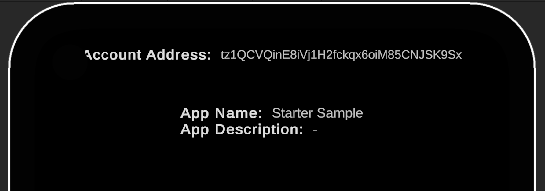
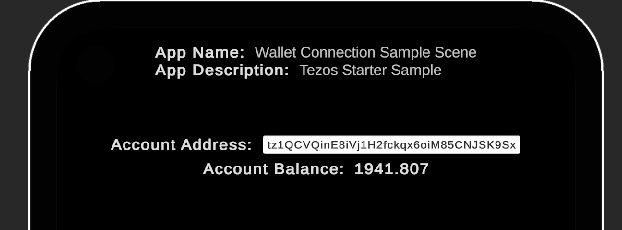
Update walletconnection scene

diff --git a/docs/dApps/unity.md b/docs/dApps/unity.md
@@ -87,15 +87,14 @@ To connect, scan the QR code in any Tezos-compatible wallet app.
 Mobile wallet apps for Tezos include [Temple](https://templewallet.com/), [Kukai](https://wallet.kukai.app/), and [Umami](https://umamiwallet.com/).
 Then, approve  the connection in the wallet app.
 
-Then, the scene shows the address of the connected account and a logout button that closes the connection:
+Then, the scene shows the address of the connected account and its balance, as in the following picture.
+At the bottom of the scene there is a logout button that closes the connection.
 
 <img src="/img/dApps/unity-walletconnection-scene-connected.png" alt="The WalletConnection scene with a connected account" style={{width: 300}} />
 
 To see the code that runs the objects in the scene, stop the scene and expand the Canvas object in the Hierarchy panel.
 Then, select an object, go to the Inspector panel, and double-click the script component.
-For example, to open the code for the object that shows the address of the account, select the AccountAddress object in the Hierarchy panel and double-click `AccountInfoUI` in the Inspector panel, as shown in this image:
-
-<img src="/img/dApps/unity-walletconnection-scene-accountinfoui.png" alt="Opening the AccountInfoUI script" style={{width: 600}} />
+For example, to open the code for the object that shows the address of the account, select the AccountAddress object in the Hierarchy panel and double-click `AccountInfoUI` in the Inspector panel.
 
 The `AccountInfoUI` script opens in your IDE.
 This script defines a variable named addressText, which is bound to the Unity object.
@@ -103,27 +102,48 @@ This script defines a variable named addressText, which is bound to the Unity ob
 In the `Start` function, it sets listeners for the Tezos SDK events that happen when accounts connect and disconnect:
 
 ```csharp
+#region Constants and Fields
+
+private readonly string _notConnectedText = "Not connected";
+
+#endregion
+
+#region Unity Methods
+
 private void Start()
 {
-  addressText.text = notConnectedText;
-  TezosManager.Instance.MessageReceiver.AccountConnected += OnAccountConnected;
-  TezosManager.Instance.MessageReceiver.AccountDisconnected += OnAccountDisconnected;
+    addressText.text = _notConnectedText;
+
+    // Subscribe to events
+    TezosManager.Instance.MessageReceiver.AccountConnected += OnAccountConnected;
+    TezosManager.Instance.MessageReceiver.AccountDisconnected += OnAccountDisconnected;
 }
 
-private void OnAccountDisconnected(AccountInfo account_info)
+#endregion
+
+#region Event Handlers
+
+private void OnAccountConnected(AccountInfo accountInfo)
 {
-  addressText.text = notConnectedText;
+    // We can get the address from the wallet
+    addressText.text = TezosManager.Instance.Wallet.GetActiveAddress();
+    // Or from the event data
+    addressText.text = accountInfo.Address;
+
+    UpdateLayout(); // Update layout to fit the new text
 }
 
-private void OnAccountConnected(AccountInfo account_info)
+private void OnAccountDisconnected(AccountInfo accountInfo)
 {
-  addressText.text = TezosManager.Instance.Wallet.GetActiveAddress();
-  // OR
-  addressText.text = account_info.Address;
+    addressText.text = _notConnectedText;
+    UpdateLayout();
 }
+
+#endregion
 ```
 
 For the complete list of listeners, see the file `Assets/TezosSDK/Runtime/Scripts/Beacon/WalletEventManager.cs` in the SDK.
+<!-- TODO link to reference section -->
 
 ### Contract scene
 
